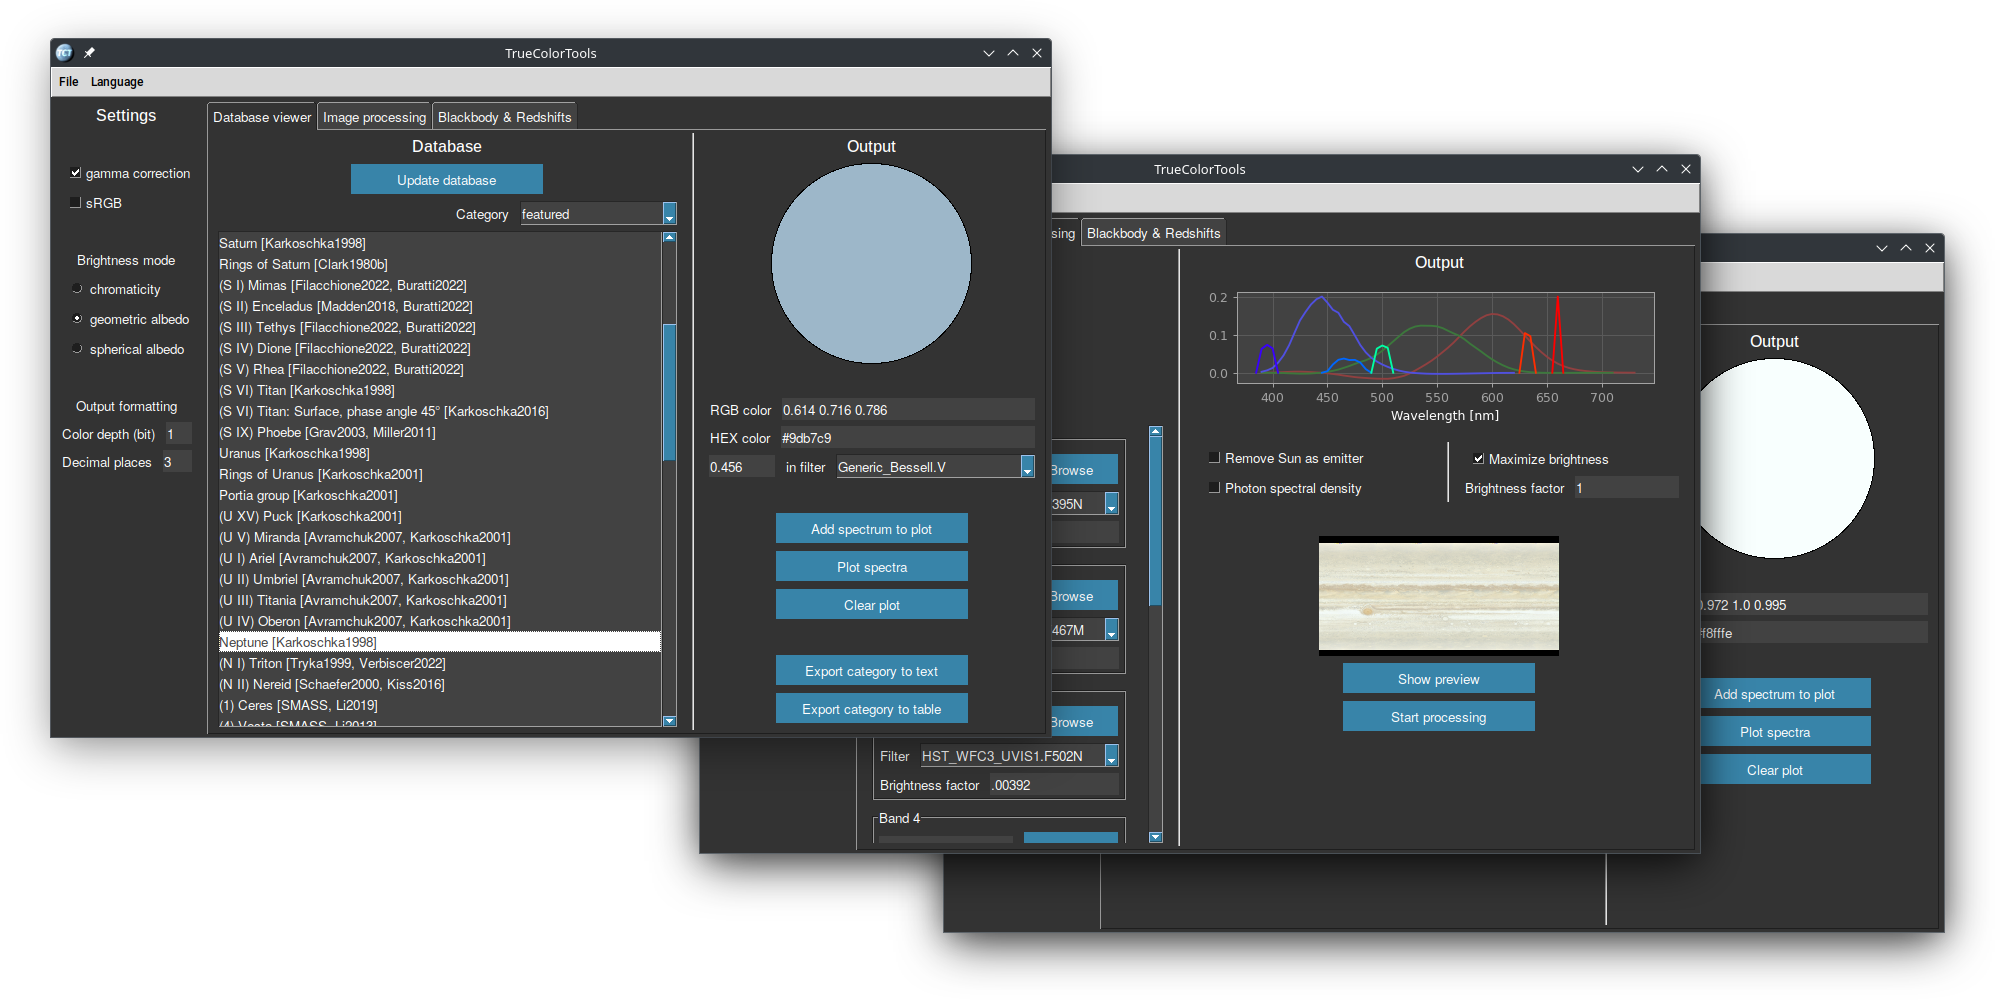
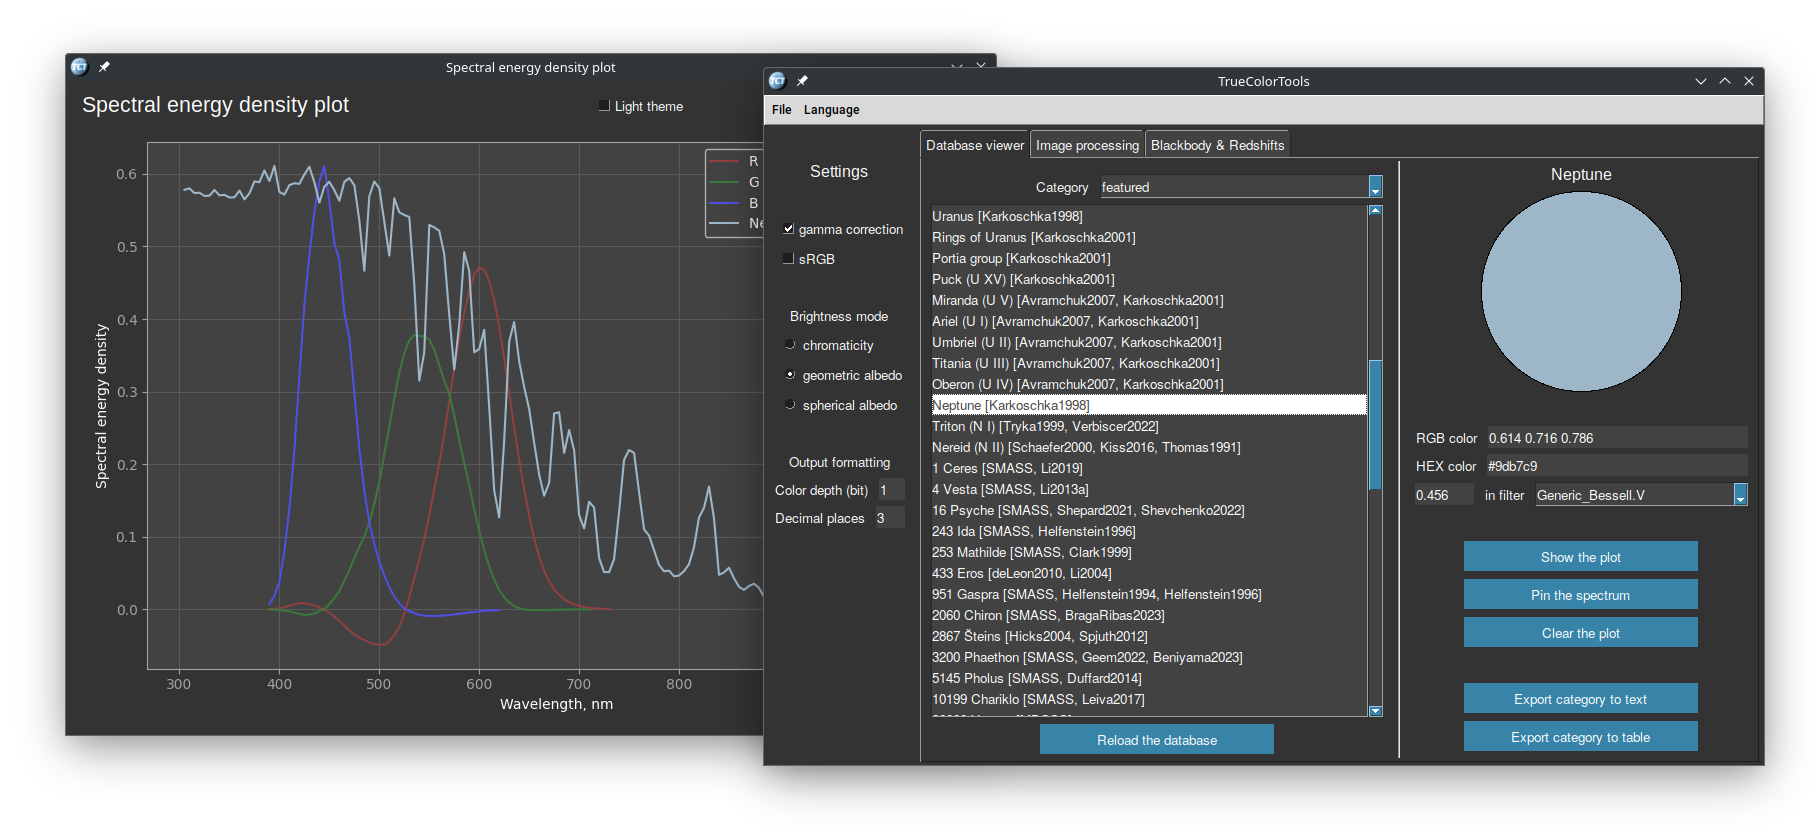
Updated color tables, ReadMe and screenshot

diff --git a/ReadMe.md b/ReadMe.md
@@ -4,6 +4,8 @@ Astronomy-focused set of Python tools with a GUI that uses spectrum construction
 
 Input data is accepted in the form of filters measurements (such as color indices) or continuous spectra, in irradiance units or in magnitudes. Stores a comprehensive catalog of photometry in a proprietary format. Can process spectral cubes, multiband spacecraft images and correct images in enhanced colors.
 
+To calibrate the color of maps based on TCT data, I recommend using [Cylindrical Texture Calibrator](https://github.com/Askaniy/CylindricalTextureCalibrator).
+
 Please note that this is a hobby project and no guarantees are provided for the results. Help is welcome!
 
 ![TCT screenshot](screenshot.webp)
@@ -11,24 +13,20 @@ Please note that this is a hobby project and no guarantees are provided for the 
 
 ## Installation
 
-TrueColorTools has been tested on Windows 10/11, macOS and Linux. It requires Python 3.10 or higher, which does not have support for Windows 7. [This](https://github.com/adang1345/PythonWin7) startup tool can be used in this case. Depending on the system, you may need to clarify the executing program by replacing `python` with `python3` in the instructions below. Versions of libraries listed in [requirements.txt](requirements.txt) are frozen as of May 2024.
+TrueColorTools has been tested on Windows 10/11, macOS and Linux ([this](https://github.com/adang1345/PythonWin7) can be used to run on Windows 7). Python version 3.10 or higher is required. Depending on the system, you may need to replace the `python` command with `python3`.
 
-**Step Zero**: Clone the repository or download the archive using the GitHub web interface. In the console, go to the project root folder.
-
-### Simple installation
-1. Install the dependencies with `pip install -r requirements.txt`;
-2. Execute `python -u runTCT.py`.
-
-### In virtual environment
-1. Create a virtual environment with `python -m venv .venv`;
-2. Install the dependencies with `.venv/bin/pip install -r requirements.txt`;
-3. Execute `.venv/bin/python -u runTCT.py`.
+1. Clone the repository or download the archive using the GitHub web interface;
+2. Open the console in the project root folder;
+3. Create a virtual environment with `python -m venv .venv`;
+4. Install the dependencies with `.venv/bin/pip install -r requirements.txt`;
+5. Execute `.venv/bin/python -u runTCT.py`.
 
 ### Executable file
-[SevenSpheres](https://github.com/SevenSpheres) compiles stable versions of TrueColorTools for Windows 8/10/11. Thus, Python is not required in this installation way.
-1. Go to [releases of SevenSpheres' fork](https://github.com/SevenSpheres/TrueColorTools/releases);
-2. Select, download and unpack the desired archive from the assets;
-3. Run `TCT.exe`.
+
+[SevenSpheres](https://github.com/SevenSpheres) compiles stable versions of CTC for Windows 8/10/11. Thus, Python is not required in this installation way.
+1. Go to [the latest release page](https://github.com/Askaniy/TrueColorTools/releases/latest);
+2. Download and unpack the first archive;
+3. Launch the `runTCT.exe`.
 
 
 ## How it works?
